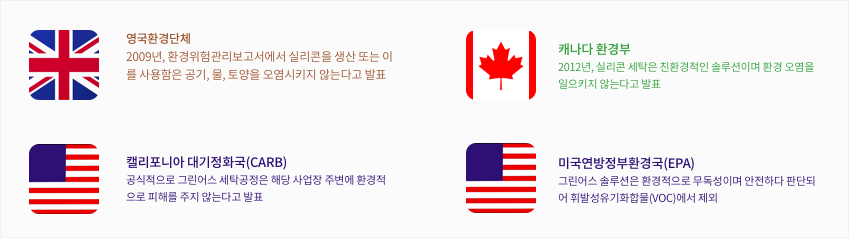
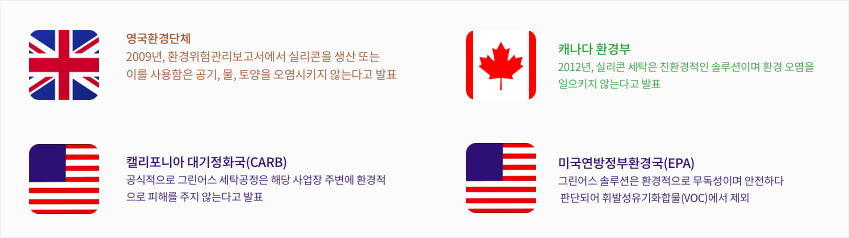
modification request(image added)

Changed region(s): [[0.1531, 0.2941, 0.49, 0.3529], [0.6431, 0.7941, 0.8881, 0.8529], [0.9187, 0.7353, 0.98, 0.7941]]

diff --git a/sub1.html b/sub1.html
@@ -54,6 +54,7 @@
             <h3 class="title">
               About<br />GreenEarth
             </h3>
+            <img id="icon_bottom" alt="icon" src="image/icon-02.png"/>
           </div>
           <div class="col-xs-8 features__avatar">
             <p>
@@ -64,16 +65,16 @@
             <p>
               <span>친환경 실리콘 세탁과 그린어스코리아</span>
               <br /><br />
-              그린어스코리아는 강남 중심의 맵시크린과 타워크린월드를 합병하여 기본적 명품관리능력을 갖추었고 국제특허 등록된 실리콘세탁 국내 총판권을 그린어스 미국본사로부터 인계 받아 2016년부터 그린어스만의 친환경 프리미엄 실리콘 세탁 기술 서비스를 국내에 제공하고 있습니다.
+              그린어스코리아는 강남 중심의 맵시크린과 타워크린월드를 합병하여 기본적 명품관리능력을 갖추었고 국제특허 등록된 실리콘세탁 국내 총판권을 그린어스 미국본사로부터 인계 받아 2016년부터 그린어스만의 친환경<br>프리미엄 실리콘 세탁 기술 서비스를 국내에 제공하고 있습니다.
               <br /><br />
               그린어스코리아는 서울, 부산 등 주요 도시 중심의 22개 직영점, 업계 전문 인력 총 100여명의 런드리 컨설턴트(Laundry Consultant, LC), 런드리 프로페셔널(Laundry Professionals, LP)와 함께 그린어스코리아 고객님께 일반 드라이클리닝과 친환경 프리미엄 실리콘 클리닝 서비스를 제공합니다.
               <br /><br />
-              그린어스코리아는 본사 아래 자체 세탁 연구소를 운영하고 있으며 브랜드 자체적으로 복원가공, 특수세탁과 같은 고난도의 세탁 및 섬유 연구, 테스트를 진행하고 있습니다. 또한 타 국가 제휴사들과의 세탁기술교류로 특수세탁 분야의 사고위험성을 최소화 하고 있습니다.
+              그린어스코리아는 본사 아래 자체 세탁 연구소를 운영하고 있으며 브랜드 자체적으로 복원가공, 특수세탁과<br>같은 고난도의 세탁 및 섬유 연구, 테스트를 진행하고 있습니다. 또한 타 국가 제휴사들과의 세탁기술교류로 특수세탁 분야의 사고위험성을 최소화 하고 있습니다.
             </p>
             <p>
               <span>다양한 B2B 사업</span>
               <br /><br />
-              그린어스코리아는 세탁 전문성과 편리성 그리고 스마트한 세탁 산업의 발전을 위해 웨딩 및 기타 드레스 케어, 린넨 세탁, 무인 세탁박스, 케어라벨 사업 등의 B2B사업을 진행하고 있습니다.
+              그린어스코리아는 세탁 전문성과 편리성 그리고 스마트한 세탁 산업의 발전을 위해 웨딩 및 기타 드레스 케어,<br>린넨 세탁, 무인 세탁박스, 케어라벨 사업 등의 B2B사업을 진행하고 있습니다.
             </p>
           </div>
         </div>
@@ -90,12 +91,13 @@
             <h3 class="title">
               GreenEarth<br />Technology
             </h3>
+            <img id="icon_bottom" alt="icon" src="image/icon-02.png"/>
           </div>
           <div class="col-xs-8 features__avatar">
             <p>
               <span>더욱 탁월한 세탁, 그린어스 실리콘 솔루션</span>
               <br /><br />
-              그린어스의 실리콘 세탁 공정에서는 실리콘 마이크로 입자가 의류 옷감 사이로 침투, 최소한의 소재 손상으로 의류를 세탁과 동시에 섬유 코팅 효과로 인해 섬유 보존력을 높여줍니다.
+              그린어스의 실리콘 세탁 공정에서는 실리콘 마이크로 입자가 의류 옷감 사이로 침투, 최소한의 소재 손상으로<br>의류를 세탁과 동시에 섬유 코팅 효과로 인해 섬유 보존력을 높여줍니다.
               <br /><br />
               <img src="image/tech-01.png"/>
               <br /><br />
@@ -103,7 +105,7 @@
               <br /><br />
               그린어스 실리콘 솔루션은 모래(SiO2) / 물 / CO2로 분해되기 때문에 세탁 후, 세제 잔존량이 극히 적어 인체에 끼치는 영향이 적습니다. 따라서 아토피나 민감 피부 소지자 분도 안심하고 사용하실 수 있습니다.
               <br /><br />
-              그린어스는 일본 직수입 EM미생물 세재를 사용하여 세탁 잔존물에 대해서도 대비해 두고 있으며 섬유세척력, 피부, 환경에 대하여 한번 더 고려하였습니다.
+              그린어스는 일본 직수입 EM미생물 세재를 사용하여 세탁 잔존물에 대해서도 대비해 두고 있으며 섬유세척력,<br>피부, 환경에 대하여 한번 더 고려하였습니다.
             </p>
             <p data-number="last">
               <span>세계 환경기관에서 인증 받은 친환경 세탁</span>
@@ -127,6 +129,7 @@
             <h3 class="title color--white">
               GreenEarth<br />Lab
             </h3>
+            <img id="icon_bottom" alt="icon" src="image/icon-02.png"/>
           </div>
           <div class="col-xs-8 features__avatar">
             <p data-number="last">
@@ -134,7 +137,7 @@
               <br /><br />
               <img src="image/leb-01.png"/>
               <br /><br />
-              그린어스코리아는 그린어스 자체 연구소의 탁월한 세척력과 섬유보존력 연구를 통해 글로벌 유명 의류 브랜드의 섬유 세탁 테스트 의뢰부터 각 유명 의류 브랜드 케어를 위한 그린어스 케어라벨 사업을 진행하고 있습니다. 그린어스코리아의 궁극적인 최종 목표는 의류 토탈 클리닝 서비스 제공이며 이를 위해 각종 세탁 사업 및 서비스를 진행하고 있습니다.
+              그린어스코리아는 그린어스 자체 연구소의 탁월한 세척력과 섬유보존력 연구를 통해 글로벌 유명 의류 브랜드의 섬유 세탁 테스트 의뢰부터 각 유명 의류 브랜드 케어를 위한 그린어스 케어라벨 사업을 진행하고 있습니다.<br>그린어스코리아의 궁극적인 최종 목표는 의류 토탈 클리닝 서비스 제공이며 이를 위해 각종 세탁 사업 및 서비스를 진행하고 있습니다.
             </p>
           </div>
         </div>
@@ -170,9 +173,10 @@
             <h3 class="title">
               GreenEarth<br />Place
             </h3>
-            <div>
+            <div style="margin-bottom: 1.8em;">
               그린어스는 전국 30여개 곳에서<br />만나보실수 있습니다.
             </div>
+            <img id="icon_bottom" alt="icon" src="image/icon-02.png"/>
           </div>
           <div class="col-xs-8 features__avatar">
              <div id="map" style="width:100%;height:400px;"></div>

diff --git a/sub2.html b/sub2.html
@@ -53,13 +53,13 @@
             <h3 class="title">
               GreenEarth<br />B2B Business<br />& Partner
             </h3>
+            <img id="icon_bottom" alt="icon" src="image/icon-02.png"/>
           </div>
           <div class="col-xs-8 features__avatar">
             <p>
-              그린어스는 당사의 기술과 가치를 공유하며 운영하는 그린어스 제휴 파트너와 함께 지속 가능한 의류
-              토탈 케어를 지향합니다.
+              그린어스는 당사의 기술과 가치를 공유하며 운영하는 그린어스 제휴 파트너와 함께 지속<br>가능한 의류 토탈 케어를 지향합니다.
               <br /><br />
-              그린어스는 제휴 파트너를 가족처럼 대우하고, 함께 성공하기 위해 필요한 도구와 자원을 제공 합니다. 단순히 경제적 목표 및 가치 추구가 아닌 제휴 파트너가 브랜드에 대한 자부심과 가치를 세상에 전달할 수 있도록 그린어스는 함께 할 것입니다.
+              그린어스는 제휴 파트너를 가족처럼 대우하고, 함께 성공하기 위해 필요한 도구와 자원을<br>제공 합니다. 단순히 경제적 목표 및 가치 추구가 아닌 제휴 파트너가 브랜드에 대한 자부심과 가치를 세상에 전달할 수 있도록 그린어스는 함께 할 것입니다.
               <br /><br />
               그린어스가 제공하는 많은 장점을 고객에게 전달함에 있어 제휴 파트너의 도움이 필요합니다. 그린어스의 가치를 추구하고 공유 및 전파하는 목표를 달성하기 위해 그린어스의 다양한 사업과 협력하기를
               바라며 제휴 파트너의 성공을 기원합니다.
@@ -83,8 +83,7 @@
                  <p>
                    웨딩드레스는 착용보다는 세탁 과정에서 손상이 발생됩니다.<br />
                    청담 수입드레스 B사, 학동 셀프웨딩점 L사, 대림 빅사이즈 드레스점 L사, <br />
-                   합정 셀프웨딩점 F사 등 유명 드레스 브랜드가 함께하는 그린어스 웨딩 케어 서비스를 경험 해 보시기
-                   바랍니다.
+                   합정 셀프웨딩점 F사 등 유명 드레스 브랜드가 함께하는 그린어스 웨딩 케어 서비스를 경험해 보시기 바랍니다.
                  </p>
                  <a href="wedding.html">
                    <img src="image/sub-go.png"/>
@@ -105,8 +104,8 @@
                  </h4>
                  <p>
                    입주민 생활 패턴에 맞춘 세탁 수거 배달 서비스 및 다양한 세탁 서비스를 제공합니다.<br />
-                   그린어스 커뮤니티 런드리 서비스를 통해 주거단지 브랜드 품격을 높이며 편리한 주거
-                   생활을 도와드립니다.
+                   그린어스 커뮤니티 런드리 서비스를 통해 주거단지 브랜드 품격을 높이며 편리한<br>
+                   주거 생활을 도와드립니다.
                  </p>
                  <a href="residence.html">
                    <img src="image/sub-go.png"/>
@@ -203,8 +202,8 @@
                    케어라벨
                  </h4>
                  <p>
-                   그린어스코리아는 그린어스 자체의 세탁 연구소를 운영, 섬유 테스트 및 각 종 관련 테
-                   스트를 통해 케어라벨을 의류 브랜드에 배포하고 있습니다.<br />
+                   그린어스코리아는 그린어스 자체의 세탁 연구소를 운영, 섬유 테스트 및 각 종 관련<br>
+                   테스트를 통해 케어라벨을 의류 브랜드에 배포하고 있습니다.<br />
                    해외에서는 이미 버버리, 나이키, H&M 등 각 종 유명 브랜드와 협업 중에 있습니다.
                  </p>
                  <a href="carelabel.html">

diff --git a/css/index.css b/css/index.css
@@ -110,7 +110,8 @@ body {
 #landing section .boxed.float-right{
   margin-right: 1.25em;
   padding-left: 0;
-  top: 20px;
+  padding-bottom: 0;
+  top: 32px;
 }
 @media(min-width:1360px){
   #landing .img-size img{
@@ -197,12 +198,13 @@ footer.space--smd {
 }
 .slider.height-68 {
   height: auto;
-  /*height: 680px;*/
 }
 .slider.height-68 .slides li {
-  /*height: 680px;*/
-  height: 613px;
+  height: 615px;
   padding: 0;
+}
+.slider.height-68 .slides li .background-image-holder{
+  height: 680px;
 }
 section[data-img='1']{
   padding-top: 0 !important;
@@ -370,7 +372,7 @@ footer .btn_primary {
   color: #ffffff !important;
   color: var(--white);
   display: inline-grid;
-  padding: 30px 60px;
+  padding: 30px 55px;
   text-align: center;
   position: absolute;
 }
@@ -449,7 +451,7 @@ footer .btn_primary {
 }
 #Safe-for-Delicate-Fa img {
   position: absolute;
-  top: -255px;
+  top: -205px;
   right: 10px;
 }
 .boxed .title .title_sub{
@@ -631,7 +633,7 @@ footer .btn_primary {
   margin-top: 15px;
 }
 #process .txt_sub p {
-  font-family: 'NotoSansCJKkr-Regular';
+  font-family: 'NotoSansCJKkr-Bold';
   opacity: 0.7;
   font-size: 11px;
   margin-bottom: 8px;
@@ -821,13 +823,14 @@ footer .col-xs-6 {
 #sub2 .content img:not([alt="pic"]){
   display: block;
 }
-#sub2 #icon_left,
-#sub1 #icon_left{
+#icon_left,
+#icon_left{
   position: relative;
   top: -24px;
 }
-#sub1 #icon_left_back_img{
-
+#icon_bottom{
+  position: relative;
+  left: -20px;
 }
 #sub2 .title,
 #sub1 .title{
@@ -890,8 +893,9 @@ footer .col-xs-6 {
 }
 #Rectangle-9_02 {
   /*left: 170px;*/
-  left: 206px;
+  left: 195px;
 }
 #Rectangle-9_03 {
-  left: 400px;
+  /*left: 400px;*/
+  left: 376px;
 }

diff --git a/index.html b/index.html
@@ -49,8 +49,7 @@
        <ul class="slides">
          <li class="imagebg" data-overlay="2">
             <div class="background-image-holder">
-               <!-- <img alt="image" src="image/keyvisual-01.png"> -->
-               <img alt="image" src="image/Childrenplaying.jpg">
+               <img alt="image" src="image/keyvisual-01.png">
             </div>
             <div class="container pos-vertical-center">
                <div class="row">
